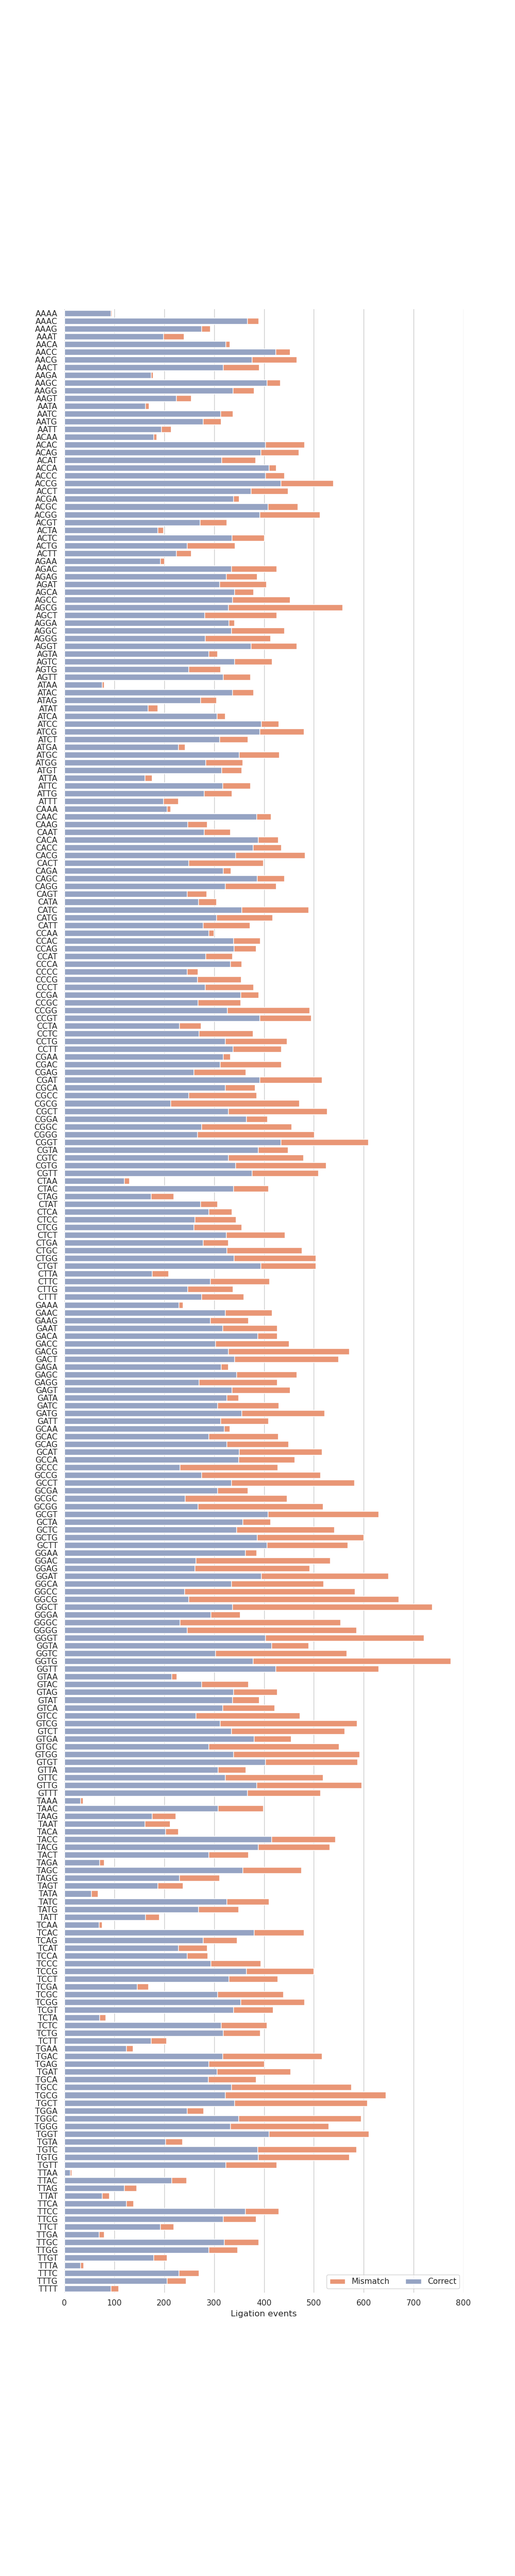
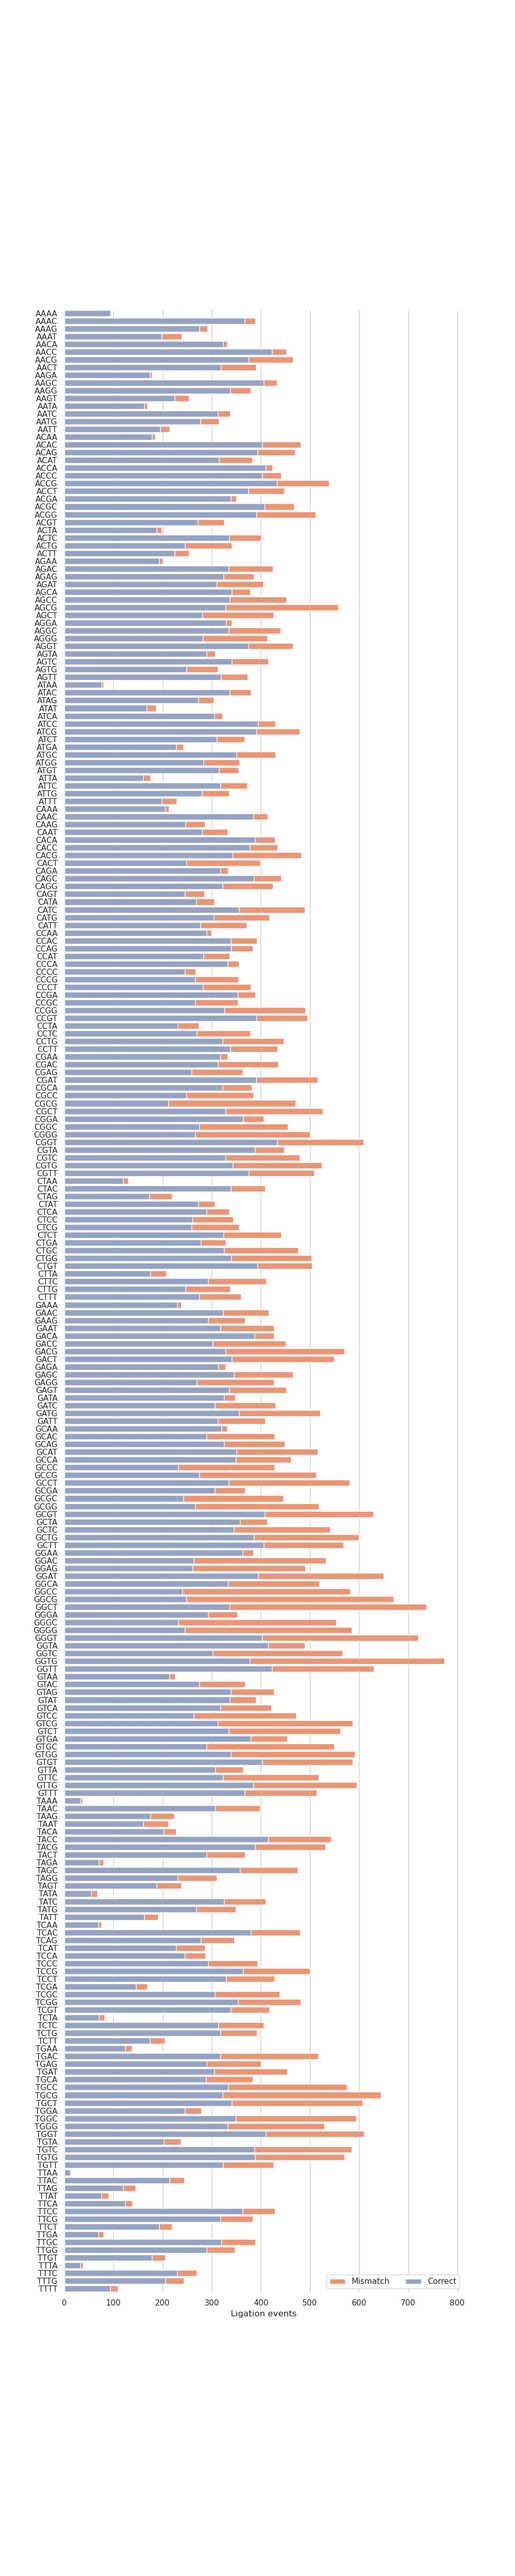
final cleanup

diff --git a/bin/plot_data.py b/bin/plot_data.py
@@ -98,7 +98,8 @@ def plot_fidelity(input_file):
 
     # Add a legend and informative axis label
     ax.legend(ncol=2, loc="lower right", frameon=True)
-    ax.set(xlim=(0, 800), ylabel="", xlabel="Ligation events")
+    # ax.set(xlim=(0, 800), ylabel="", xlabel="Ligation events")
+    ax.set(ylabel="", xlabel="Ligation events")
     sns.despine(left=True, bottom=True)
     
     # Save the figure
@@ -125,14 +126,15 @@ def plot_mismatch(input_file):
     sns.set_theme(style="whitegrid")
 
     # Set up the matplotlib figure
-    f, ax = plt.subplots(figsize=(5, 5))
+    f, ax = plt.subplots(figsize=(7, 7))
 
     # Define colors
     col = sns.color_palette("Set2")
 
     # Plot the total number of ligation events
     sns.barplot(x='Mismatch', y='Count', data=mismatch, color=col[1])
-    ax.set(ylim=(0,5), ylabel='Mismatch frequency, %')
+    # ax.set(ylim=(0,5), ylabel='Mismatch frequency, %')
+    ax.set(ylabel='Mismatch frequency, %')
     sns.despine(left=True, bottom=True)
 
     # Save the figure

diff --git a/README.md b/README.md
@@ -38,11 +38,7 @@ The computational steps are described below.
 
 ## Example PacBio BAM sequencing data
 
-For the purpose of this example, you can download PacBio sequencing data for the b4 substrate sequencing.
-
-```
-wget https://sra-download.ncbi.nlm.nih.gov/traces/sra70/SRZ/019043/SRR19043774/lib26.bam
-```
+Download PacBio sequencing data (m64163_220709_012719.subreads.bam) for the b4 substrate from NCBI SRA (PRJNA894239) to the working directory and rename to movie.subreads.bam.
 
 For convenience, we define a set of environment variables to define location of the input data files and the output directory. Please update these variables according to your computational environment.
 
@@ -75,7 +71,6 @@ split.py \
     ${subreads}
 
 samtools view -N subreads.0.txt -o subreads.0.bam ${subreads}
-
 samtools view -N subreads.1.txt -o subreads.1.bam ${subreads}
 ```
 
@@ -96,13 +91,12 @@ ccs \
     --min-passes=3 \
     $rundir/01-cluster/subreads.0.bam subreads_ccs.0.bam
 
-samtools index $rundir/02-ccs/subreads_ccs.0.bam
-
 ccs \
     --num-threads=24 \
     --min-passes=3 \
     $rundir/01-cluster/subreads.1.bam subreads_ccs.1.bam
 
+samtools index $rundir/02-ccs/subreads_ccs.0.bam
 samtools index $rundir/02-ccs/subreads_ccs.1.bam
 ```
 
